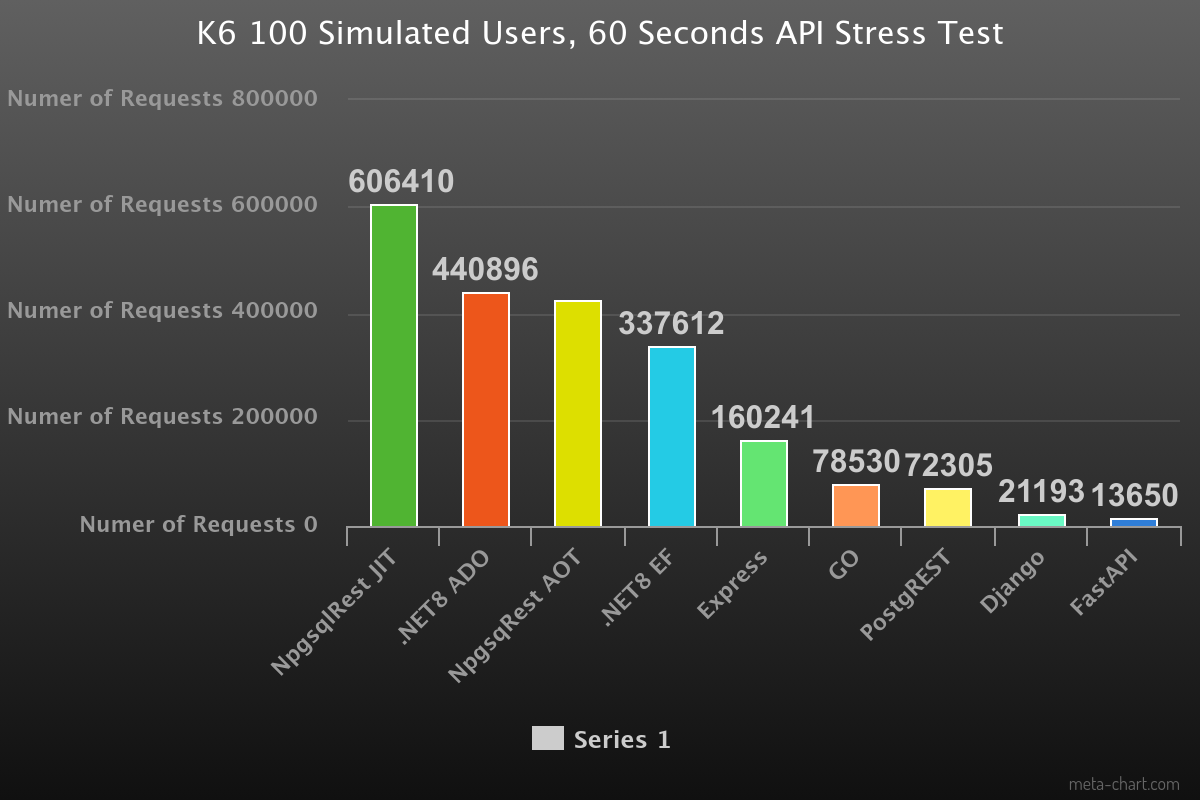
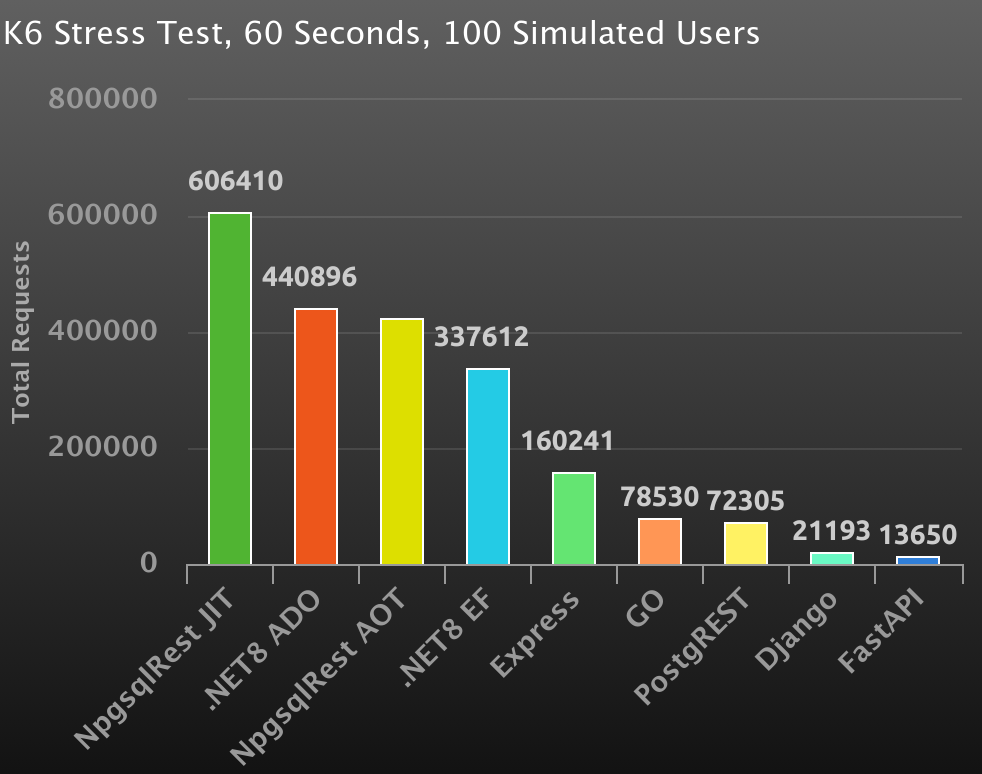
chart

diff --git a/README.md b/README.md
@@ -14,7 +14,7 @@
 - [High Performance](#high-performances)
 
 <p style="text-align: center; width: 100%">
-    <img src="/chart.png" />
+    <img src="/chart.png?v2" />
 </p>
 
 - Modular Design
@@ -183,7 +183,7 @@ app.Run();
 
 NpgsqlRest has an extremely high throughput:
 
-| Platform | Numer of Requests in 60 seconds |
+| Platform | Number of Requests in 60 seconds |
 | -- | --: |
 | NpgsqlRest AOT | 423,515 |
 | NpgsqlRest JIT | 606,410 |
